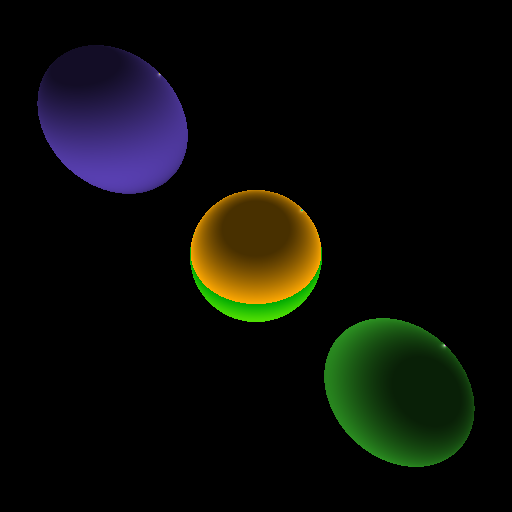
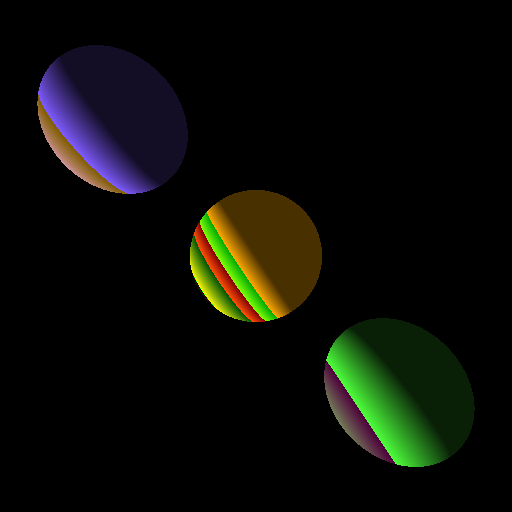
added parallelt lighting

diff --git a/raytracer/src/main/java/at/ac/univie/unet/a01638800/raytracer/phong/PhongShader.java b/raytracer/src/main/java/at/ac/univie/unet/a01638800/raytracer/phong/PhongShader.java
@@ -1,7 +1,7 @@
 package at.ac.univie.unet.a01638800.raytracer.phong;
 
 import at.ac.univie.unet.a01638800.raytracer.geometricobjects.Color;
-import at.ac.univie.unet.a01638800.raytracer.geometricobjects.Ray;
+import at.ac.univie.unet.a01638800.raytracer.geometricobjects.Normal;
 import at.ac.univie.unet.a01638800.raytracer.geometricobjects.Vector;
 import at.ac.univie.unet.a01638800.raytracer.intersection.Intersection;
 import at.ac.univie.unet.a01638800.raytracer.scene.MaterialSolid;
@@ -13,123 +13,79 @@ public class PhongShader {
     private final MaterialSolid materialSolid;
     private final Intersection intersection;
 
-    private LightMode lightMode;
-
-    private final Vector normalVector;
-    private final Ray lightRay;
-    private Color lightColor;
-    private final Vector pointToCameraVector;
-
-    public PhongShader(Scene.Lights lights, MaterialSolid materialSolid, Intersection intersection) {
-        this.lights = lights;
+    public PhongShader(Scene.Lights parsedLights, MaterialSolid materialSolid, Intersection intersection) {
+        this.lights = parsedLights;
         this.materialSolid = materialSolid;
         this.intersection = intersection;
-
-        // get normal of intersection point
-        this.normalVector = new Vector(
-                this.intersection.getNormal().getX(),
-                this.intersection.getNormal().getY(),
-                this.intersection.getNormal().getZ()
-        );
-
-        this.lightRay = new Ray();
-        this.lightColor = new Color();
-
-        // get vector from intersection point to camera, which is the inverted ray direction
-        this.pointToCameraVector = this.intersection.getRayDirection().invert();
-        this.pointToCameraVector.normalize();
-
-        this.setLightMode();
     }
 
     public double[] calculatePixelColor() {
         double[] pixelColor = new double[3];
 
-        Vector reflectionVector = this.setupReflectionVector();
+        Vector normalVector = new Vector(
+                this.intersection.getNormal().getX(),
+                this.intersection.getNormal().getY(),
+                this.intersection.getNormal().getZ()
+        );
 
-        Color[] colorComponents = this.computeColorComponents(
-                lightRay.getDirection(),
-                pointToCameraVector,
-                reflectionVector,
-                lightColor);
+        Vector pointToLightVector = this.getPointToLightVector();
+        Vector pointToCameraVector = new Vector();
+        Vector reflectionVector = normalVector.subtractVector(pointToLightVector);
 
-        pixelColor[0] = colorComponents[0].getR() + colorComponents[1].getR() + colorComponents[2].getR();
-        pixelColor[1] = colorComponents[0].getG() + colorComponents[1].getG() + colorComponents[2].getG();
-        pixelColor[2] = colorComponents[0].getB() + colorComponents[1].getB() + colorComponents[2].getB();
+        reflectionVector = reflectionVector.scaleByFactor(pointToLightVector.dotProduct(normalVector));
+        reflectionVector = reflectionVector.scaleByFactor(2.0);
+
+        Color[] colorComponents = this.computeColorComponents(pointToLightVector, pointToCameraVector, reflectionVector);
+
+        pixelColor[0] = colorComponents[0].getR() + colorComponents[1].getR();
+        pixelColor[1] = colorComponents[0].getG() + colorComponents[1].getG();
+        pixelColor[2] = colorComponents[0].getB() + colorComponents[1].getB();
 
         return pixelColor;
     }
 
-    private void setLightMode() {
-        if (this.lights.getLights().size() >= 2 && this.lights.getLights().size() < 3) {
-            this.lightMode = LightMode.PARALLEL_LIGHT;
+    private Vector getPointToLightVector() {
+        Vector pointToLightVector = new Vector();
 
-            this.setupParallelLighting();
+        if (this.lights.getLights().size() == 2) {
+            // scene lighting is of type parallel light
+            ParallelLight parallelLight = (ParallelLight) this.lights.getLights().get(1);
 
-        } else if (this.lights.getLights().size() >= 3) {
-            this.lightMode = LightMode.SPOTLIGHTS;
-        } else {
-            this.lightMode = LightMode.ONLY_AMBIENT;
+            pointToLightVector = new Vector(
+                    Double.parseDouble(parallelLight.getDirection().getX()),
+                    Double.parseDouble(parallelLight.getDirection().getY()),
+                    Double.parseDouble(parallelLight.getDirection().getZ())
+            );
+
+        } else if (this.lights.getLights().size() > 2) {
+            // TODO implement
         }
+
+        return pointToLightVector;
     }
 
-    private void setupParallelLighting() {
-        // get parsed parallel light
-        ParallelLight parallelLight = (ParallelLight) this.lights.getLights()
-                .stream()
-                .filter(l -> l instanceof ParallelLight)
-                .findFirst()
-                .get();
-
-        // set origin to intersection point
-        lightRay.setOrigin(intersection.getIntersectionPoint());
-
-        // get inverted direction (from intersection point to light)
-        lightRay.setDirection(new Vector(
-                -Double.parseDouble(parallelLight.getDirection().getX()),
-                -Double.parseDouble(parallelLight.getDirection().getY()),
-                -Double.parseDouble(parallelLight.getDirection().getZ())
-        ));
-        lightRay.getDirection().normalize();
-
-        lightColor = new Color(
-                Double.parseDouble(parallelLight.getColor().getR()),
-                Double.parseDouble(parallelLight.getColor().getG()),
-                Double.parseDouble(parallelLight.getColor().getB())
-        );
-    }
-
-    private Vector setupReflectionVector() {
-        Vector reflectionVector = normalVector.subtractVector(lightRay.getDirection());
-        reflectionVector = reflectionVector.scaleByFactor(2.0 * lightRay.getDirection().dotProduct(normalVector));
-
-        reflectionVector.normalize();
-
-        return reflectionVector;
-    }
-
-    private Color[] computeColorComponents(Vector pointToLightVector, Vector pointToCameraVector, Vector reflectionVector, Color lightColor) {
+    private Color[] computeColorComponents(Vector pointToLightVector, Vector pointToCameraVector, Vector reflectionVector) {
         Color[] colorComponents = new Color[3];
 
         Color objectColor = new Color(
                 Double.parseDouble(this.materialSolid.getColor().getR()),
                 Double.parseDouble(this.materialSolid.getColor().getG()),
-                Double.parseDouble(this.materialSolid.getColor().getB()));
+                Double.parseDouble(this.materialSolid.getColor().getB())
+        );
 
         Color ambient = objectColor.multiplyByFactor(Double.parseDouble(this.materialSolid.getPhong().getKa()));
 
         Color diffuse = objectColor.multiplyByFactor(Double.parseDouble(this.materialSolid.getPhong().getKd()));
-        double diffuseFactor = Math.max(0.0, normalVector.dotProduct(this.intersection.getNormal()));
+
+        double diffuseFactor = Math.max(0.0, pointToLightVector.dotProduct(this.intersection.getNormal()));
         diffuse = diffuse.multiplyByFactor(diffuseFactor);
 
-        Color specular = lightColor.multiplyByFactor(Double.parseDouble(this.materialSolid.getPhong().getKs()));
-        double specularFactor = reflectionVector.dotProduct(pointToCameraVector);
-        specularFactor = Math.max(0.0, specularFactor);
-        specular = specular.multiplyByFactor(Math.pow(specularFactor, Double.parseDouble(this.materialSolid.getPhong().getExponent())));
+        Color specular = objectColor.multiplyByFactor(Double.parseDouble(this.materialSolid.getPhong().getKs()));
 
-        if (normalVector.dotProduct(pointToLightVector) < 0.0) {
-            specular = new Color(0.0, 0.0, 0.0);
-        }
+        double specularFactor = reflectionVector.dotProduct(pointToCameraVector);
+        // TODO switch
+        specularFactor = Math.pow(specularFactor, Double.parseDouble(this.materialSolid.getPhong().getExponent()));
+        specular = specular.multiplyByFactor(Math.max(0.0, specularFactor));
 
         colorComponents[0] = ambient;
         colorComponents[1] = diffuse;
